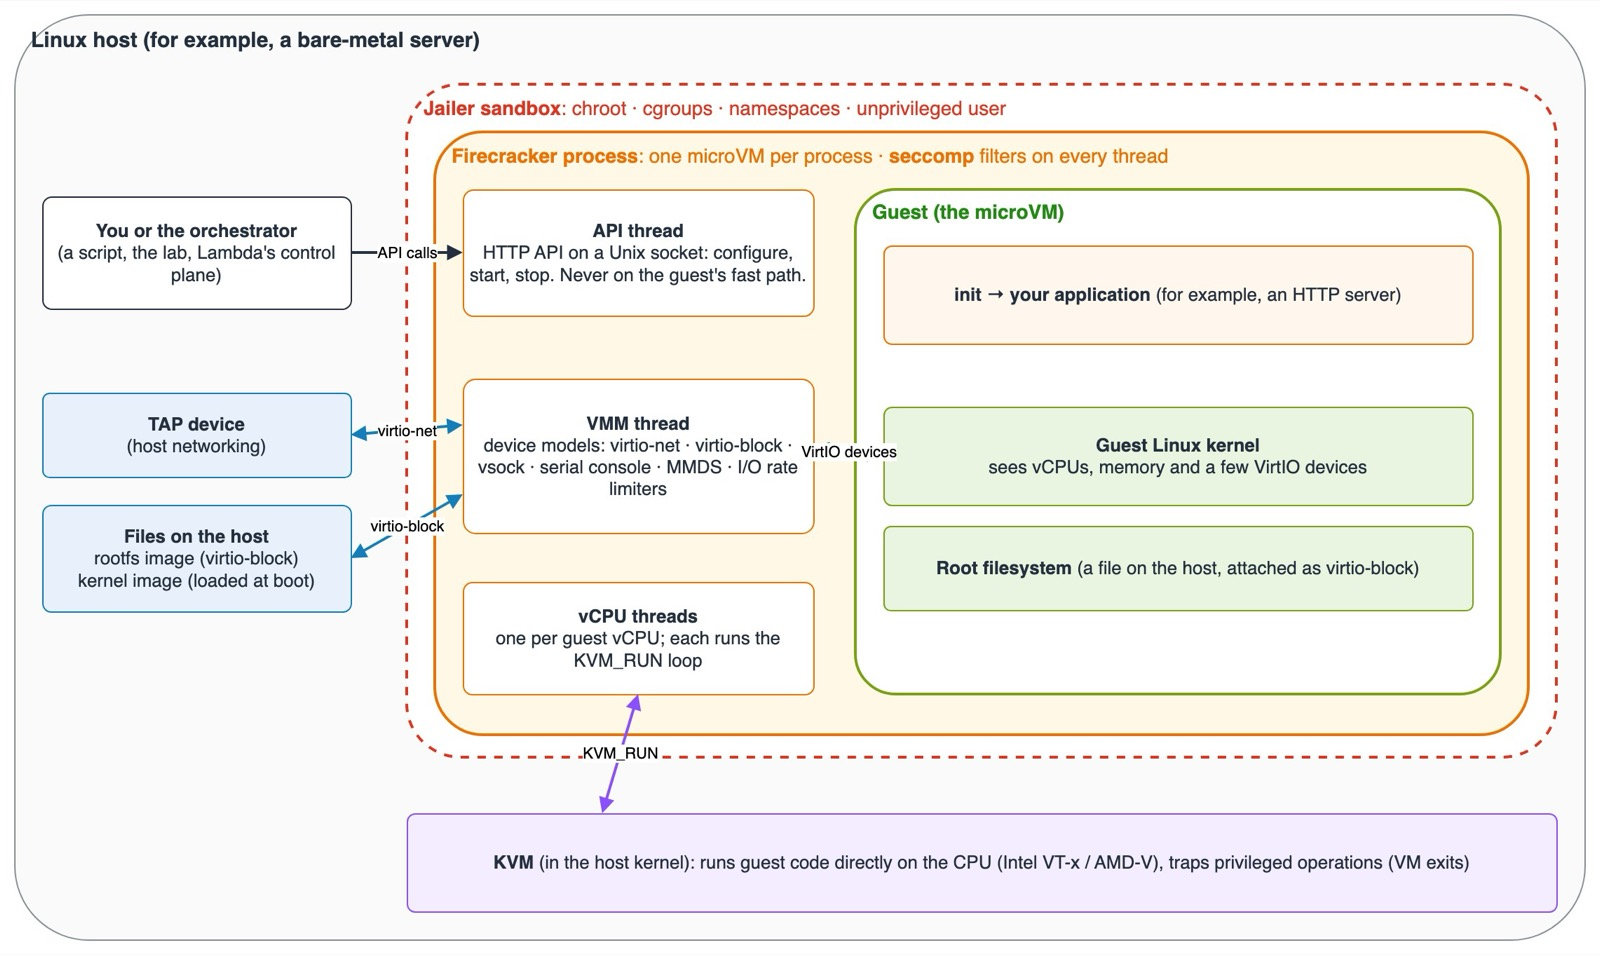
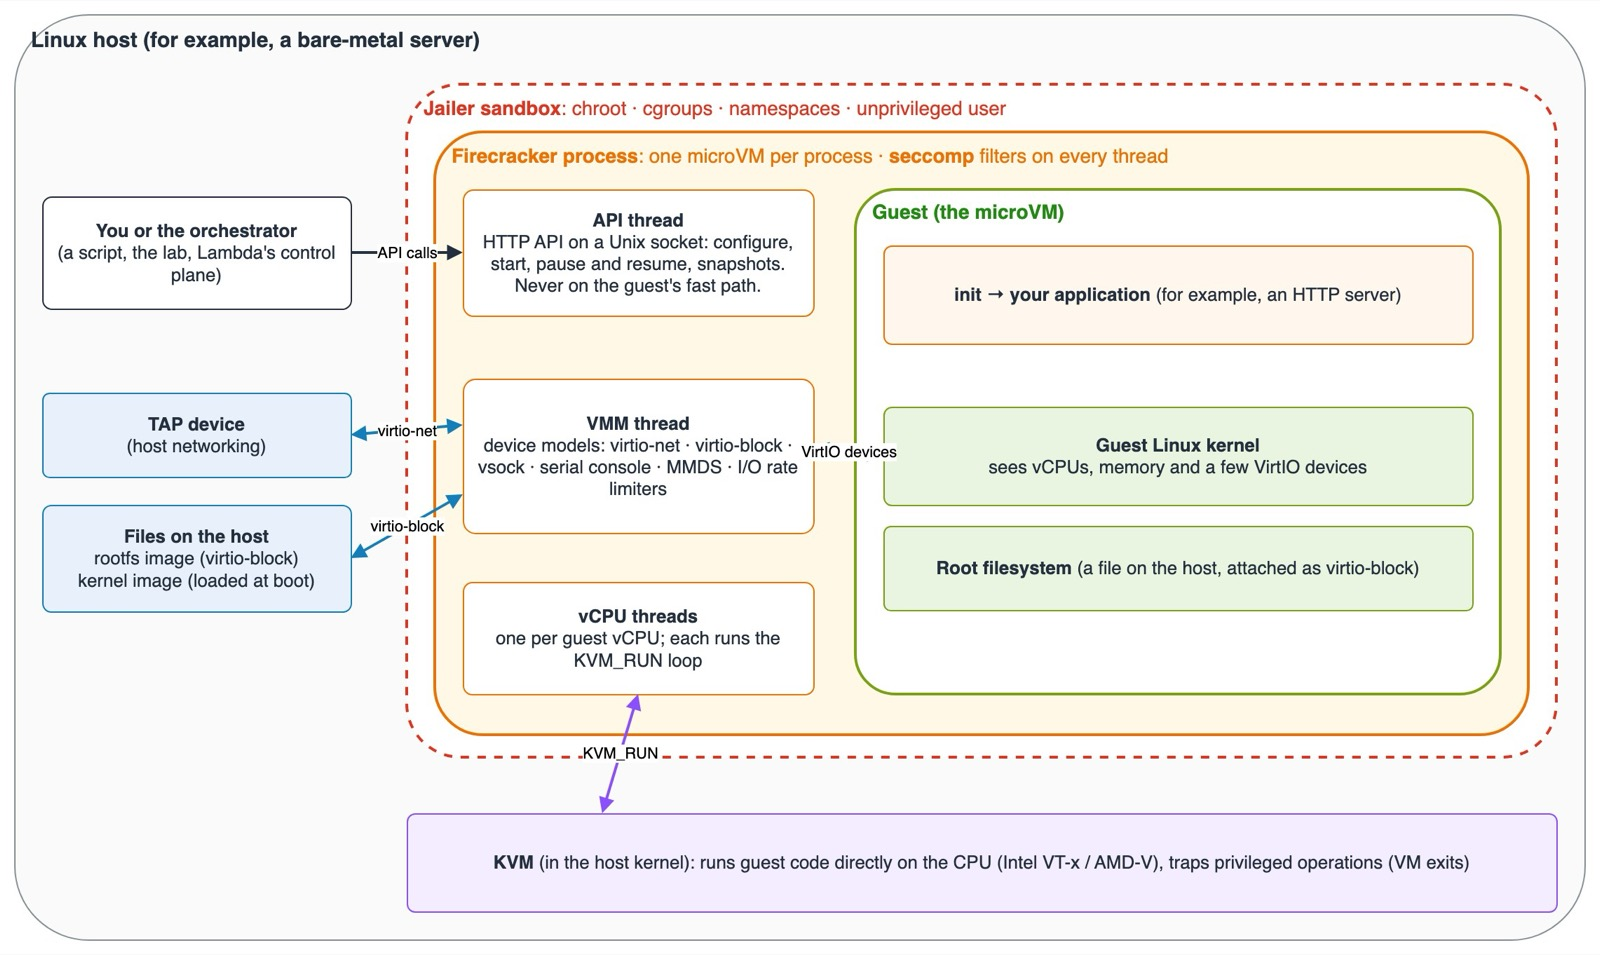
3.01 EC2 or Containers?: video embed, README row, Firecracker API wording
- Embed the theory video (Ak88MbuAxKg) on the page and add it to the chapter README
- Firecracker's API: configure, start, pause/resume and snapshots (it has no stop action), in the text and the architecture diagram
- VirtIO diagram: "notifies the VMM (batched)"

Changed region(s): [[0.2812, 0.2126, 0.5, 0.3037]]

diff --git a/3.01-ec2/EC2-or-Containers.md b/3.01-ec2/EC2-or-Containers.md
@@ -2,6 +2,10 @@
 
 [⬅ Back to 3.01 EC2](README.md) | [Firecracker lab ➡](firecracker-lab-walkthrough.md)
 
+**▶ Video** (15 min):
+
+[![Video: EC2 – EC2 or containers? From virtual machines to Firecracker microVMs](https://img.youtube.com/vi/Ak88MbuAxKg/maxresdefault.jpg)](https://youtu.be/Ak88MbuAxKg)
+
 You already know two ways to run an application in the cloud: on a **virtual machine** (an EC2 instance) and in a **container** (ECS, Fargate). This page explains why AWS built a third option, the **microVM**, and how **Firecracker**, the open-source technology behind it, works.
 
 It's theory only: no commands and no installations. The story goes: the world we have → the problem → the requirements → the solution → the architecture → how it boots. In the [Firecracker lab](firecracker-lab-walkthrough.md) you build a microVM yourself.
@@ -234,7 +238,7 @@ QEMU and Firecracker can use the **same KVM**. The difference is in the VMM: how
 - A **Linux host** with the **KVM** module.
 - One **Firecracker process** per microVM: one process, one microVM.
 - Inside the process, three kinds of threads:
-  - the **API thread** serves Firecracker's HTTP API on a Unix socket (configure, start, stop). It's never on the guest's fast path;
+  - the **API thread** serves Firecracker's HTTP API on a Unix socket: configure the microVM, start it, pause and resume it, and take snapshots. It's never on the guest's fast path;
   - the **VMM thread** runs the machine model and the device models: virtio-net, virtio-block, vsock, the serial console, the metadata service (MMDS) and I/O rate limiters;
   - one **vCPU thread** per guest CPU runs KVM's `KVM_RUN` loop, which executes the guest's code.
 - Inside the microVM: the **guest kernel**, its root filesystem, init and the application.

diff --git a/3.01-ec2/README.md b/3.01-ec2/README.md
@@ -6,6 +6,7 @@
 |---|-----|-------|
 | 1 | **Launch Your First EC2 Instance** – the *Launch an instance* page, step by step: AMI, instance type and the Free Tier, a key pair, network settings and storage | [Lab 1](lab-1.md) · [Solution](lab-1-solution.md) · [▶ Video](https://youtu.be/guJMkW6rb7g) |
 | 2 | **Connect with SSH, Run a Container, and Clean Up** – SSH with your key, open port 80, install Docker, run `elevy99927/color:blue`, browse to it, then stop and terminate the instance | [Lab 2](lab-2.md) · [Solution](lab-2-solution.md) · [▶ Video](https://youtu.be/paAiY6g03wQ) |
+| 3 | **EC2 or Containers? From Virtual Machines to Firecracker MicroVMs** (theory) – VMs, containers and microVMs, KVM, Firecracker's architecture, VirtIO, the boot, and how AWS Lambda uses it | [Read](EC2-or-Containers.md) · [▶ Video](https://youtu.be/Ak88MbuAxKg) |
 
 Before you start: the network from [2.04 VPC and Networking – Lab 1](../2.04-vpc-and-networking/lab-1.md) (`ecs-vpc`), or a default VPC.
 
